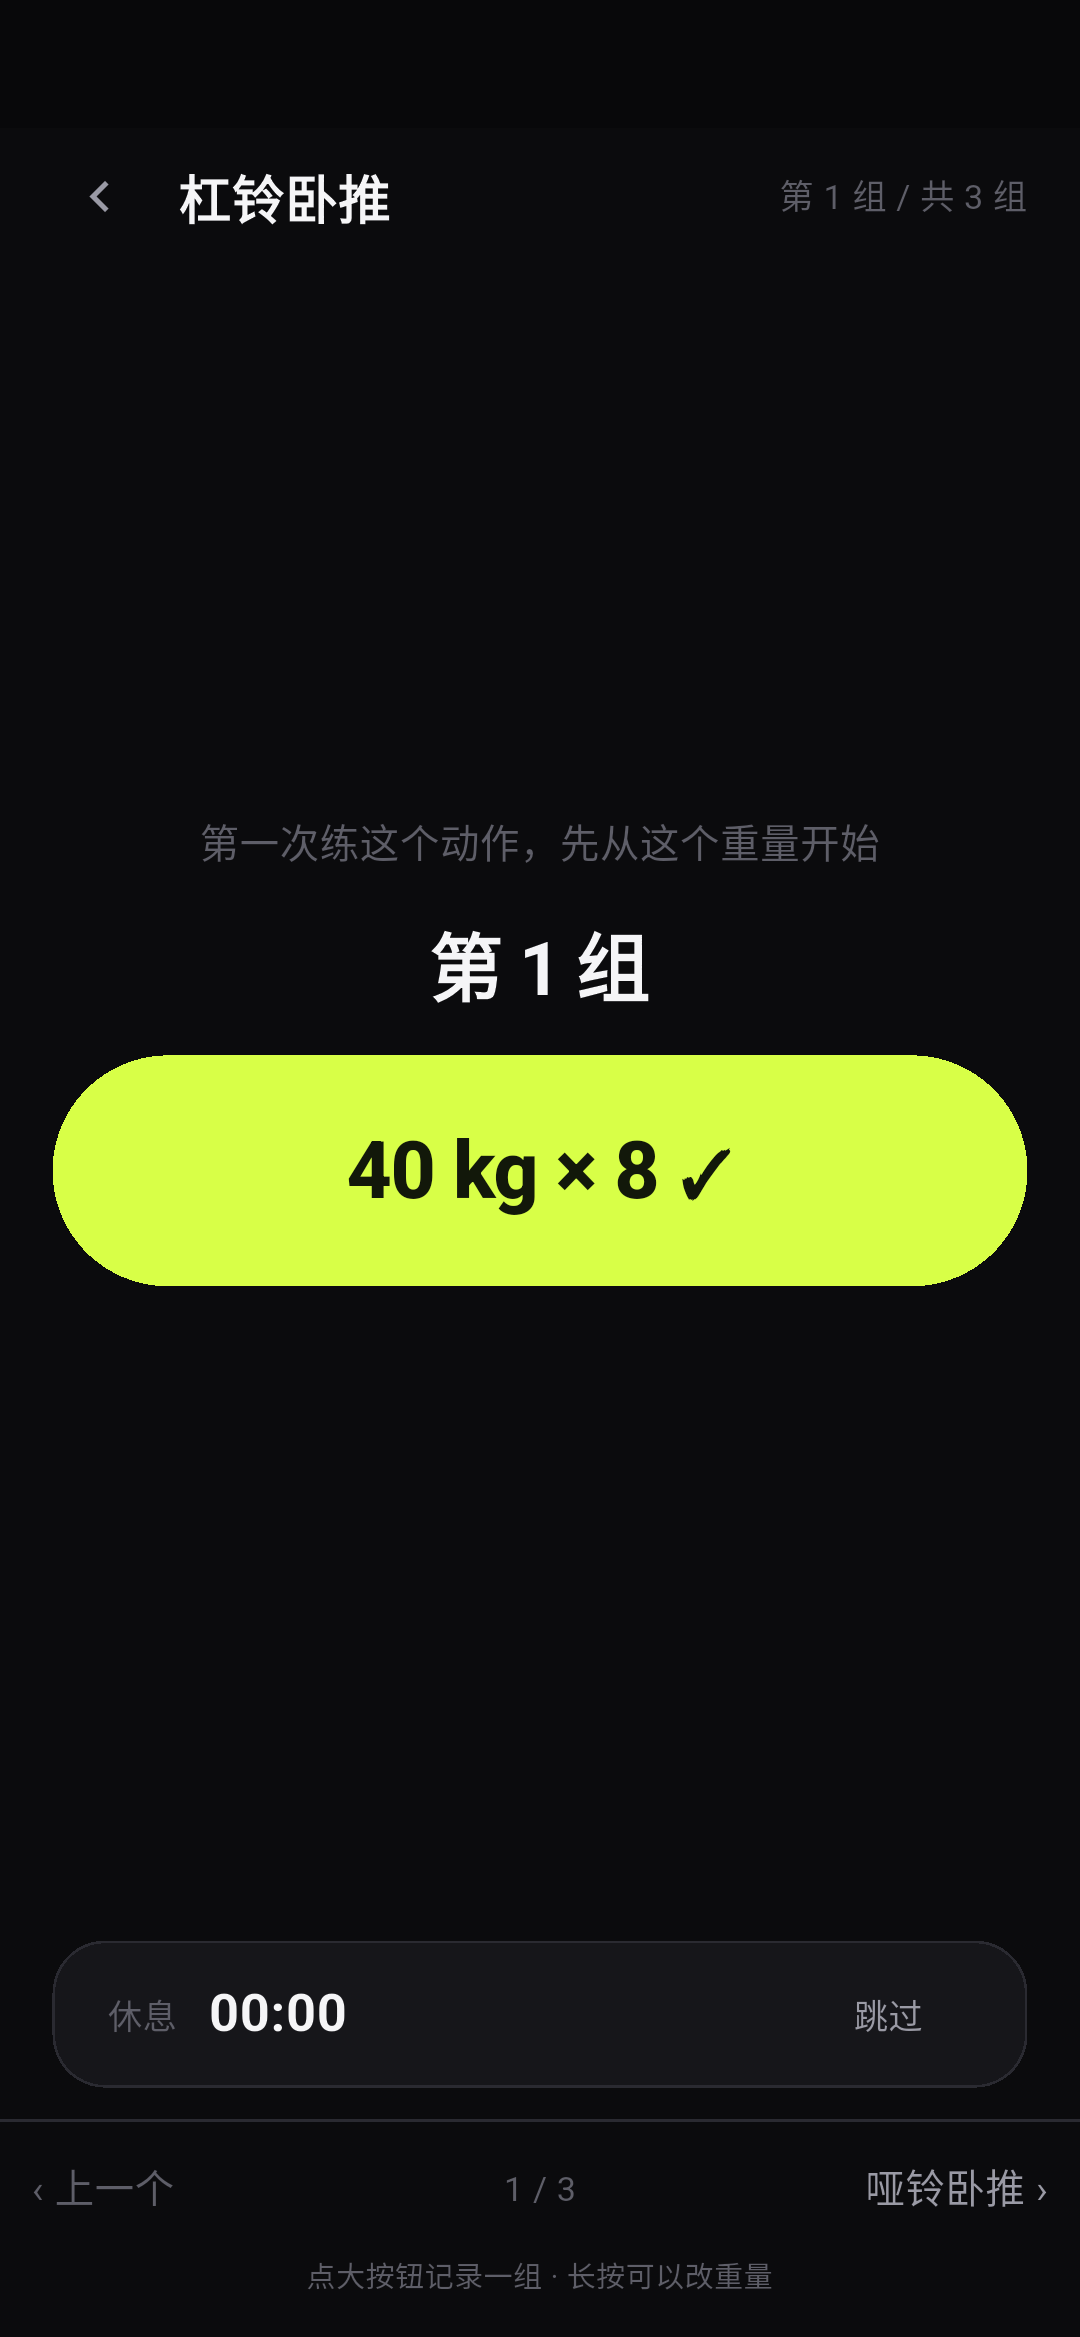
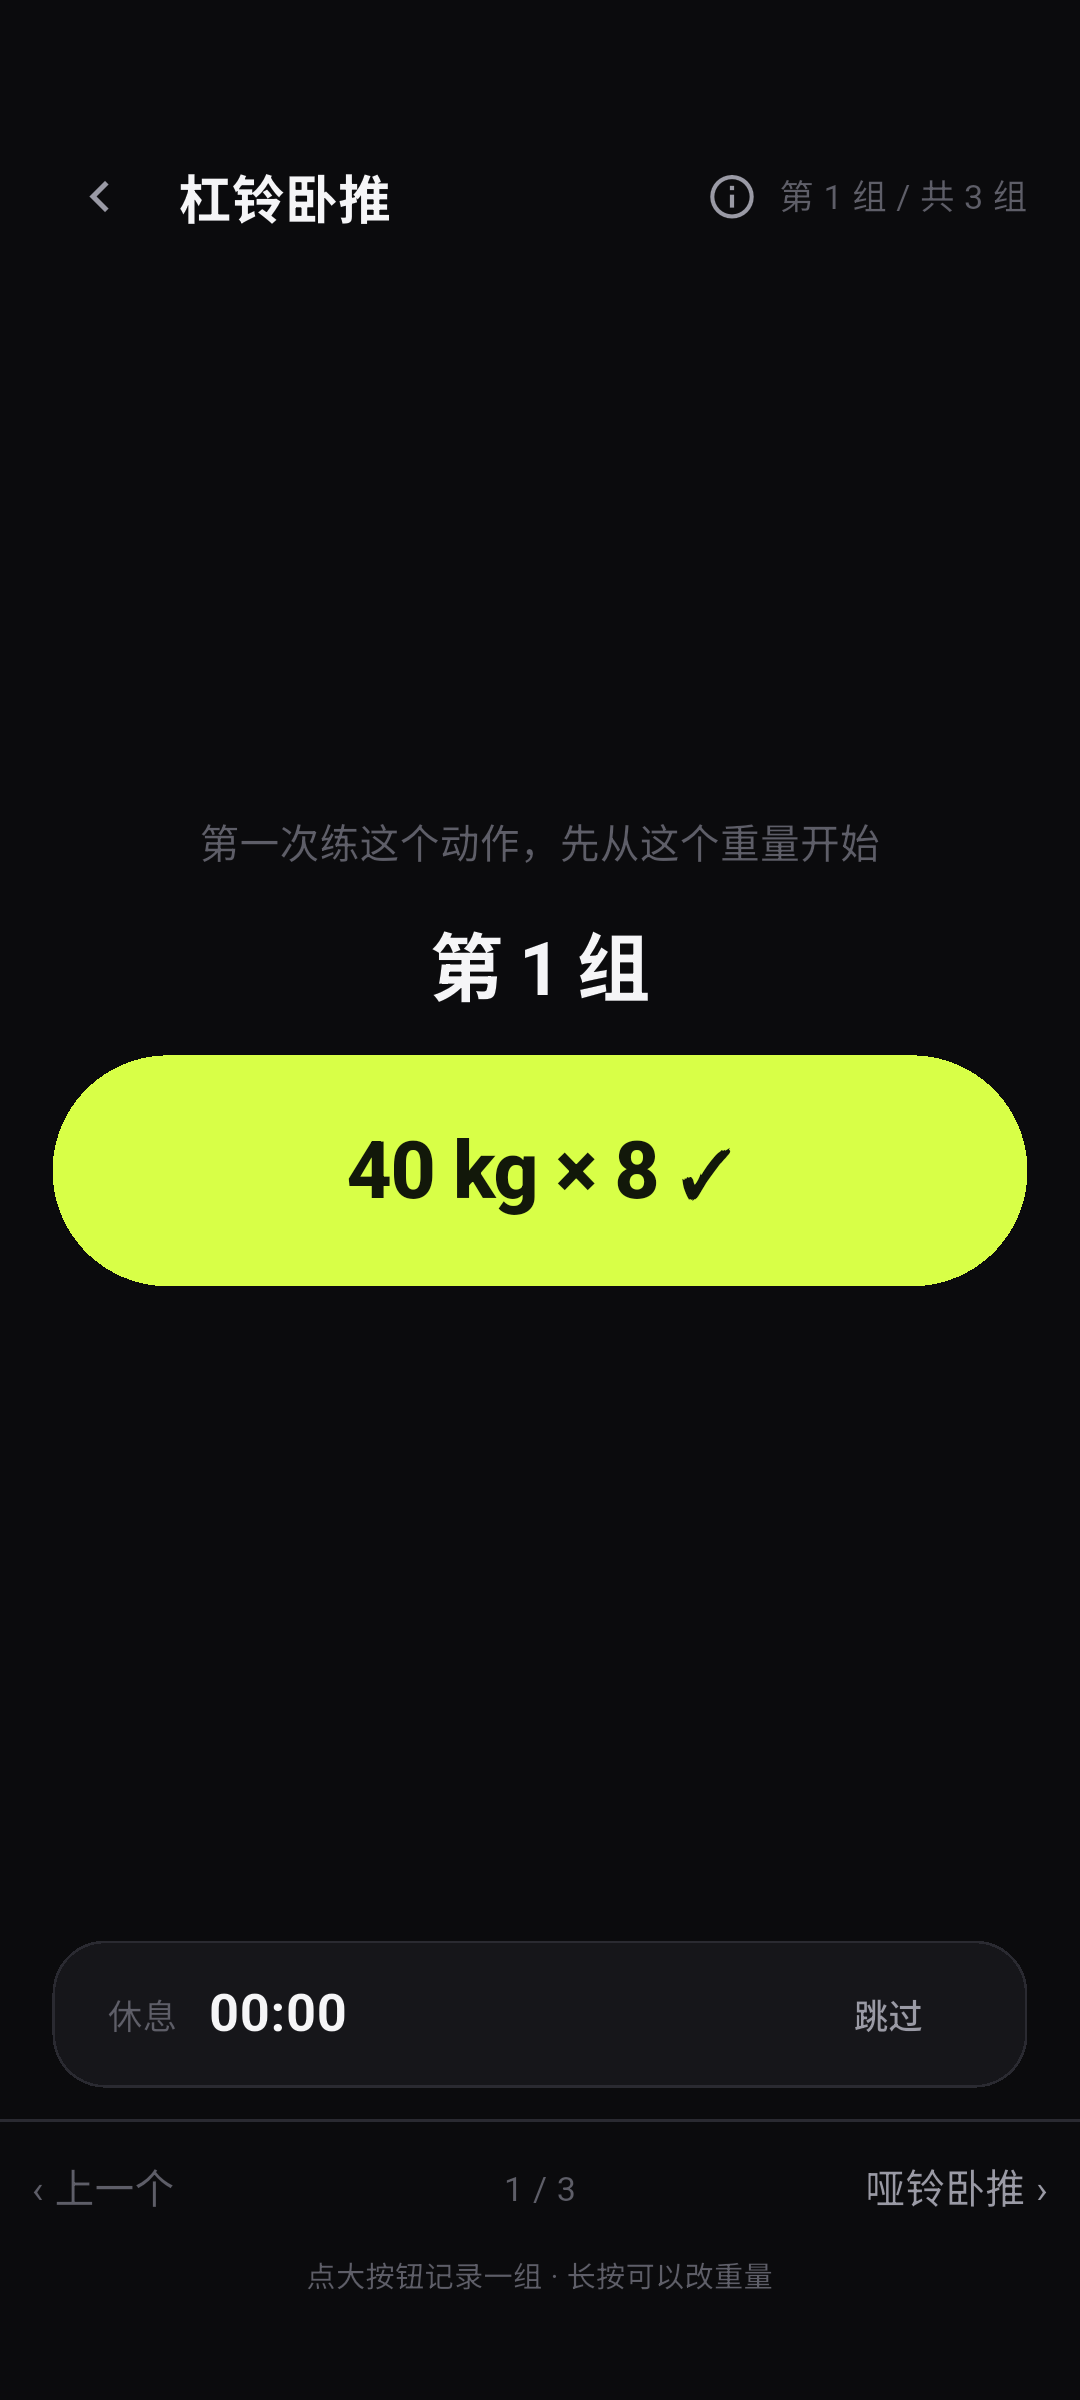
chore(ios/env): 装上安卓模拟器（卡了五轮的"看不见界面"破了）+ 软著说明书两个数字加守卫
真机长期锁屏、拿不到解锁凭据，所以"界面到底长什么样""截图是不是当前版本"一直只能记成
"没验证"。这轮换条路：在本机装无头安卓模拟器（Pixel 6 / API 36 / arm64，都在 SSD 上）。

第一次真的看见了界面：S1 首页、S4 训练屏、S7 训练完成逐张看过，与设计稿一致；
logcat 里第一次有 `Displayed … +1s405ms / Fully drawn` —— 这才是"它真的画出来了"的证据
（真机锁屏时 gfxinfo 一直是 0 帧）。11 张商店截图整套重跑，现在都是当前版本
（之前那批是 v1.17.0 的界面，缺动作详情页与"练完拉伸一下"；S7 那张 56KB → 109KB 就是
因为多了拉伸与说明）。软著说明书的界面图同源，那条"取自 v1.17.0"的警告删掉。
docs/screenshots.md 补上 `-d <设备 id>`（接两台设备时不指定就是薛定谔的截图）。

**空格坑的第三个受害者**：sdkmanager / avdmanager 也是 shell 脚本、也没给 classpath 加引号，
卷名 `Elliot's SSD` 里的空格让它们报 `ClassNotFoundException: SSD.harness-deps...`。
符号链接绕不过去（脚本解析真实路径）。绕法是直接调 Java 类、自己设脚本本该设的属性
（--sdk_root= 与 -Dcom.android.sdkmanager.toolsdir=），四条命令原样抄进 dev-environment.md。
装的东西：emulator 1.1G + 系统镜像 4.3G + AVD（ANDROID_AVD_HOME 指到 SSD）。

**软著说明书抓到两个没人守的数字**：正文写版本 V1.17.0、数据库模式 v9、迁移清单缺 v9、
应用层测试"555 项"（实际 693）、"剩余 7 屏截图"（早已齐了）。源程序量那条有守卫，
这几个没有，于是悄悄烂了 —— 而它是提交材料，写错就是"材料与实际不符"。
守卫补上：copyright-pdf.mjs --check-docs 现在同时核版本号（= app_info.dart）与数据库模式
版本（= db.dart 的 schemaVersion），两条都负向验证过。会漂的测试条数改成指向
release-checklist（那处有守卫）。

门禁六层全绿（693 测试 —— 本轮不动 app/；变异 24 杀 / 0 存活 = 100%）。
真机没动（仍是 v1.23.0）；模拟器上装的是同一个 release 包。

diff --git a/docs/copyright-manual.md b/docs/copyright-manual.md
@@ -4,15 +4,17 @@
 > 事实全部取自仓库（每一条都能在代码里核到），不是套模板写的。
 > 界面图见 `store-assets/screenshots/`（真实 App 生成，见 [`screenshots.md`](screenshots.md)）。
 >
-> **提交前需要你补的**：① 实名信息（见 [`copyright-application.md`](copyright-application.md)）；
-> ② 剩余 7 屏截图（脚本已写好，一条命令即可，见文末清单）。
+> **提交前需要你补的**：**只有实名信息**（见 [`copyright-application.md`](copyright-application.md)）。
+> 界面图已就位：11 屏截图在 `store-assets/screenshots/`，本文第四节引用了其中 8 屏。
+> 这批图是**当前版本**在 Android 模拟器（Pixel 6 / API 36，1080×2400）上跑
+> `integration_test/screenshots_test.dart` 现出的 —— 见 [`screenshots.md`](screenshots.md)。
 
 ---
 
 ## 一、软件概述
 
 **名称**：练了么（LianLeMe）
-**版本**：V1.17.0
+**版本**：V1.23.0
 **类型**：移动应用软件（Android）
 **运行环境**：Android 7.0（API 24）及以上；包名 `com.sdknwdtvpv.lianleme`
 
@@ -29,10 +31,10 @@
 |---|---|
 | 开发语言 | Dart（应用与规则引擎）、JavaScript（规则引擎的参考实现与工具链）、Python（图标生成，一次性） |
 | 开发框架 | Flutter 3.47.5（stable）/ Dart SDK ≥ 3.5.0 |
-| 本地数据库 | SQLite（经 drift 管理），当前模式版本 **v9** |
+| 本地数据库 | SQLite（经 drift 管理），当前模式版本 **v10** |
 | 开发环境 | macOS（Apple Silicon），Android SDK，Gradle |
 | 运行环境 | Android 7.0（API 24）～ Android 16（API 36），arm64 / armeabi-v7a / x86_64 |
-| 源程序量 | **129 个源文件 / 34,104 行**（截至 V1.23.0，仅统计自研源码：Dart / JS / Python；不含生成代码与第三方依赖） |
+| 源程序量 | **129 个源文件 / 34,146 行**（截至 V1.23.0，仅统计自研源码：Dart / JS / Python；不含生成代码与第三方依赖） |
 
 ## 三、主要功能模块
 
@@ -83,6 +85,8 @@
 - **按名称与别名检索**（输入 `bp` 能搜到「杠铃卧推」）
 - **按部位 / 器械 / 类别三排筛选**（家里只有一对哑铃的人可以只看哑铃动作）
 - **每个动作都有动作说明**（351/351 全覆盖，说明怎么写、常见错是什么）
+- **动作详情页**：长按列表里的动作、或在训练屏点动作名旁的信息图标进入 ——
+  显示"历史最好 / 总组数 / 最近几次"，加上做法与常见错误（练之前先看一眼，不用退出去查）
 - 新建自定义动作
 
 ### 3.5 有氧与距离
@@ -112,6 +116,13 @@
 - **删除全部数据**（二次确认，一并清空身体数据与未上报的埋点事件）
 - **「帮助改进产品」开关**（默认开启、随时可关；关闭后除崩溃外零上报）
 - 当前发布版本**不含任何上报地址**，训练数据不会离开设备（可由附录 B 的命令自行验证）
+- **云备份**（v1.21.0 起）：训练记录可加密备份到服务器，恢复码是唯一钥匙。
+  三点如实说明：① **默认关闭**；② 内容是**端到端加密**的，服务端只有密文，
+  看不到动作名、重量、体重；③ **当前发布的包没有配服务器地址，界面上不会出现这个入口** ——
+  也就是说，这个版本里的数据一条都不会上传
+- **删除全部数据**：二次确认；若这台设备开过云备份，会多问一句是否**一并删除云端备份并注销**
+  （默认一并删）。实现上先删云端、失败就整个中止，避免出现"本机删了、云端还留着"
+  而恢复码已经没了的状态
 
 ## 四、操作说明（配图）
 
@@ -139,8 +150,8 @@
    —— 它回答的是"这些测试到底在守着行为，还是只在自我安慰"。
 3. **端到端体验门禁**：记录一组的点击次数（`tap_count`）有自动化统计与发布闸门，
    中位数比上一版变差就不许发。
-4. **数据库迁移有测试**：模式版本已从 v1 演进到 v9（9 次迁移）。测试按
-   **v1 / v2 / v4 / v5 / v6 / v7 / v8 各挑一个代表版本**建出当时结构的库，
+4. **数据库迁移有测试**：模式版本已从 v1 演进到 v10（10 次迁移）。测试按
+   **v1 / v2 / v4 / v5 / v6 / v7 / v8 / v9 各挑一个代表版本**建出当时结构的库，
    再用当前代码打开，断言"不崩、新表可用、老数据一条没动"（共 8 条），
    另有一条专门守着夹具本身（老库里确实没有后来才加的那一列）。
    老版本用户升级不会丢数据，且这一点是**测出来的**，不是承诺。
@@ -154,7 +165,7 @@
 |---|---|
 | 契约层 | 动作库种子构建、JS 引擎 45 条向量、8 个场景（152 步 / 12 条产品红线） |
 | 领域层 | Dart 引擎 vs 同一份向量（60 项断言）、`tap_count` 边界 |
-| 应用层 | Flutter widget 测试（**555 项**） |
+| 应用层 | Flutter widget 与界面测试（数量随版本变化，当前值见 `docs/release-checklist.md` 的"当前状态速览"） |
 | 静态分析 | `dart analyze --fatal-infos` 零问题 |
 | 变异测试 | 24 个变异体全部被杀死（0 存活） |
 | 一致性 | 隐私政策对账、可用性测试口径自检、发行资源检查、隐私政策页面防漂移 |

diff --git a/CHANGELOG.md b/CHANGELOG.md
@@ -10,6 +10,64 @@
 
 > 只改文档与工具、不切版（版本号策略见本文件开头）。
 
+### 装了一台安卓模拟器 —— 卡了五轮的"看不见界面"终于破了
+
+真机（Redmi `flourite`）长期锁屏、我拿不到解锁凭据，所以"界面到底长什么样""截图是不是
+当前版本"这两件事一直只能如实记成"没验证"。这轮换了条路：**在这台机器上装安卓模拟器**
+（无头、无锁屏），于是：
+
+* **第一次真的看见了界面**。S1 首页、S4 训练屏、S7 训练完成都逐张看过，
+  与设计稿一致；`adb logcat` 里第一次有 `Displayed … +1s405ms / Fully drawn` ——
+  这才是"它真的画出来了"的证据（真机锁屏时 `gfxinfo` 一直是 0 帧）。
+* **11 张商店截图整套重跑**，现在都是当前版本（之前那批是 **v1.17.0** 的界面，
+  缺了后来加的动作详情页与"练完拉伸一下"—— S7 那张的字节数从 56KB 涨到 109KB，
+  就是因为多了拉伸与说明）。软著说明书里的界面图同源，那条"取自 v1.17.0"的警告也删了。
+* 顺带把 `docs/screenshots.md` 的运行命令补上 `-d <设备 id>`（接两台设备时不指定就是
+  薛定谔的截图），并把模拟器这条路写进 `docs/dev-environment.md`。
+
+**它不能替代真机验收** —— 目标是真机；但"看不见"与"看得见"是两件事。
+模拟器还留了个后手：云备份的端到端可以在它上面跑（宿主机后端在模拟器里是 `10.0.2.2`）。
+
+### 那个空格坑的**第三个**受害者：`sdkmanager` / `avdmanager`
+
+```
+$ sdkmanager --list
+.../sdkmanager: line 173: test: : integer expression expected
+错误: 找不到或无法加载主类 SSD.harness-deps.android-sdk.cmdline-tools.latest
+```
+
+和 AAB 的 `apkanalyzer`、`privacy-audit --apk` 是**同一个根因**：它们是 shell 脚本，
+把自己的位置拼进 classpath 时没加引号，卷名 `Elliot's SSD` 里的空格把它劈开了。
+**符号链接绕不过去**（脚本把真实路径解析回来，试过了）。绕法是直接调 Java 类、
+自己把脚本本该设的属性设上（`--sdk_root=` + `-Dcom.android.sdkmanager.toolsdir=`）——
+四条命令原样抄在 `docs/dev-environment.md` 里，模拟器与镜像就是这么装上的。
+
+装的东西都在 SSD 上：emulator 1.1G + 系统镜像 4.3G + AVD（`ANDROID_AVD_HOME` 指到 SSD）。
+
+### 软著说明书：抓到两个没人守的数字
+
+准备交材料时核了一遍 `docs/copyright-manual.md`，发现：正文写着**版本 V1.17.0**、
+**数据库模式 v9**、迁移测试清单缺 v9、应用层测试"555 项"（实际 693），
+还有一句"剩余 7 屏截图"（截图早就齐了，11 屏）。
+源程序量那条有守卫，**这几个数字没有，于是悄悄烂了** —— 而它是提交材料，写错就是
+"材料与实际不符"。
+
+修完之后把守卫补上：`tool/copyright-pdf.mjs --check-docs` 现在同时核
+**版本号**（必须等于 `app_info.dart`）与**数据库模式版本**（必须等于 `db.dart` 的
+`schemaVersion`），两条都**负向验证过**（改回 V1.17.0 / v9 → 判红）。
+说明书里那个会漂的测试条数改成指向 `docs/release-checklist.md`（那处有守卫）。
+
+### 验证
+
+六层门禁全绿（**693 测试** —— 本轮不动 `app/`；变异 24 杀 / 0 存活 = 100%；
+`dart analyze --fatal-infos` 零问题）。软著材料按当前版本重新生成
+（129 文件 / 34,146 行；说明书 6 页，源程序 60 页 A4）。
+真机没动（仍是 v1.23.0）；模拟器上装的是同一个 release 包，界面逐屏看过。
+
+
+
+> 只改文档与工具、不切版（版本号策略见本文件开头）。
+
 ### 线 1（iOS）：把"不需要 Xcode 就能做完的事"又往前推了一步
 
 iOS 卡在 Xcode 上（这台机器只有 Command Line Tools）。但目标里那份 iOS 欠账，

diff --git a/docs/dev-environment.md b/docs/dev-environment.md
@@ -126,6 +126,60 @@ flutter_tools 拿不到输出 → 认定"没剥掉调试符号" → 报失败。
 > 这一条和"依赖装在 SSD"是**真的冲突**，不是配置没调好：Android 的工具链对空格路径
 > 本来就不支持（`flutter doctor` 也会为此报一条 `[!]`）。
 
+## 安卓模拟器（2026-09-30 装好）—— 以及那个空格坑的第三个受害者
+
+**为什么装它**：真机（Redmi `flourite`）长期锁屏、拿不到解锁凭据，于是
+"界面到底长什么样""截图是不是当前版本"这两件事一直卡着。
+模拟器没有锁屏，能跑 `integration_test` 出图、能 `screencap` 看屏、也能当云备份端到端的设备
+（宿主机后端在模拟器里是 `10.0.2.2`）。**它不能替代真机验收**，但能让"看不见"变成"看得见"。
+
+装的东西（都在 SSD 上）：
+
+| 项 | 位置 | 大小 |
+|---|---|---|
+| emulator | `harness-deps/android-sdk/emulator` | 1.1G |
+| 系统镜像 | `harness-deps/android-sdk/system-images/android-36/google_apis/arm64-v8a` | 4.3G |
+| AVD | `harness-deps/avd/lianleme_api36.avd`（`ANDROID_AVD_HOME` 指过去） | 数 G（用到才长） |
+
+```bash
+export ANDROID_AVD_HOME="/Volumes/Elliot's SSD/harness-deps/avd"
+export ANDROID_EMULATOR_HOME="/Volumes/Elliot's SSD/harness-deps/emulator-home"
+"$ANDROID_SDK_ROOT/emulator/emulator" -avd lianleme_api36 \
+    -no-window -no-audio -no-boot-anim -gpu swiftshader_indirect -no-snapshot &
+# 约 40 秒后：adb -s emulator-5554 shell getprop sys.boot_completed → 1
+```
+
+### ⚠ `sdkmanager` / `avdmanager` 在这台机器上是坏的 —— 卷名里的空格，第三个受害者
+
+```
+$ sdkmanager --list
+.../sdkmanager: line 173: test: : integer expression expected
+错误: 找不到或无法加载主类 SSD.harness-deps.android-sdk.cmdline-tools.latest
+```
+
+和 AAB 那次（`apkanalyzer`）、和 `privacy-audit --apk` 那次是**同一个根因**：
+这两个都是 shell 脚本，把自己的位置拼进 classpath 时**没加引号**，
+而卷名 `Elliot's SSD` 里的空格把它劈开了。**符号链接绕不过去**（脚本会把真实路径解析回来，
+试过了）。绕法是**直接调 Java 类**，把脚本本该设的属性自己设上：
+
+```bash
+SDK="/Volumes/Elliot's SSD/harness-deps/android-sdk"; CT="$SDK/cmdline-tools/latest"
+# 列表 / 安装
+"$JAVA_HOME/bin/java" -cp "$(ls $CT/lib/*.jar | tr '\n' ':')" \
+  com.android.sdklib.tool.sdkmanager.SdkManagerCli --sdk_root="$SDK" --list
+yes | "$JAVA_HOME/bin/java" -cp "$(ls $CT/lib/*.jar | tr '\n' ':')" \
+  com.android.sdklib.tool.sdkmanager.SdkManagerCli --sdk_root="$SDK" \
+  "emulator" "system-images;android-36;google_apis;arm64-v8a"
+# 建 AVD（注意这个多一个 toolsdir 属性，缺了会报 "tools directory property is not set"）
+"$JAVA_HOME/bin/java" -Dcom.android.sdkmanager.toolsdir="$CT" \
+  -classpath "$CT/lib/avdmanager-classpath.jar" com.android.sdklib.tool.AvdManagerCli \
+  create avd -n lianleme_api36 -k "system-images;android-36;google_apis;arm64-v8a" -d pixel_6
+```
+
+**根因还是那条**：Android 工具链不支持带空格的 SDK 路径，而这块 SSD 的卷名带空格。
+想彻底解决只有三条路（**都需要你定**，见 `docs/release-checklist.md` 的"待处理"）：
+SSD 上再建一个名字没有空格的 APFS 卷 / 把 SDK 放回内置盘 / 继续用这些绕法。
+
 ## 没搬的东西，以及为什么
 
 | 没搬 | 为什么 |

diff --git a/docs/screenshots.md b/docs/screenshots.md
@@ -7,8 +7,11 @@
 ```bash
 cd app
 flutter drive --driver=test_driver/screenshot_driver.dart \
-              --target=integration_test/screenshots_test.dart
+              --target=integration_test/screenshots_test.dart -d <设备 id>
 ```
+**`-d` 一定要给**：接了两台设备时（例如真机 + 模拟器），不指定就是薛定谔的截图。
+本仓库的做法与踩过的坑见 `docs/dev-environment.md`「安卓模拟器」一节（
+`emulator-5554` 就是在那台无头模拟器上跑的，**不需要解锁真机**）。
 
 产物写进 `store-assets/screenshots/`（**入库**：它是交付物，不是 `dist/` 那种构建产物）。
 
@@ -104,10 +107,13 @@ adb -s emulator-5554 install -r "dist/练了么-v<版本>.apk"
 | `11-body-metric.png` | 身体数据（**kg / 斤 实时切换**） |
 | `docs/images/launcher-icon-verified.png` | 启动器图标与名字（不算商店素材，是验证证据） |
 
-两处尺寸差异（如实记，不藏着）：
+尺寸（如实记，不藏着）：
 
-- 11 张是 **1080×2337**（`integration_test` 抓的是 Flutter 自己的 surface，不含系统状态栏）
-- `01b-home-fresh-install.png` 是 **1080×2400**（`adb screencap` 抓的整屏，含状态栏）
+- **2026-09-30 在无头模拟器（Pixel 6 / API 36 / 1080×2400）上整套重跑过**，
+  11 张现在都是 **1080×2400**（`integration_test` 抓 Flutter 自己的 surface，不含系统状态栏）。
+  重跑的原因：上一批是 **v1.17.0** 的界面，而那之后加了动作详情页与"练完拉伸一下"，
+  说明书与商店图会跟实际界面不一致。
+- `01b-home-fresh-install.png` 是 **`adb screencap` 抓的整屏**（含状态栏）
 
 商店通常逐张接收、不要求尺寸一致；若要统一，用 11 张那套即可（它自己也齐了）。
 

diff --git a/docs/copyright-application.md b/docs/copyright-application.md
@@ -58,7 +58,7 @@
 | 开发工具/软件环境 | Flutter 3.47.5（stable）、Dart SDK ≥ 3.5.0、Android SDK、Gradle |
 | 运行软件环境 | **Android 7.0（API 24）及以上**（编译 targetSdk 36） |
 | 编程语言 | Dart、JavaScript、Python |
-| 源程序量 | **129 个源文件 / 34,104 行**（截至 V1.23.0） |
+| 源程序量 | **129 个源文件 / 34,146 行**（截至 V1.23.0） |
 
 > 源程序量的口径（如被问到就照这个答）：**只统计自研源码**（`app/lib`、`app/test`、
 > `app/tool`、`engine`、`server`、`tool`），**不含**生成代码（如 `*.g.dart`）、
